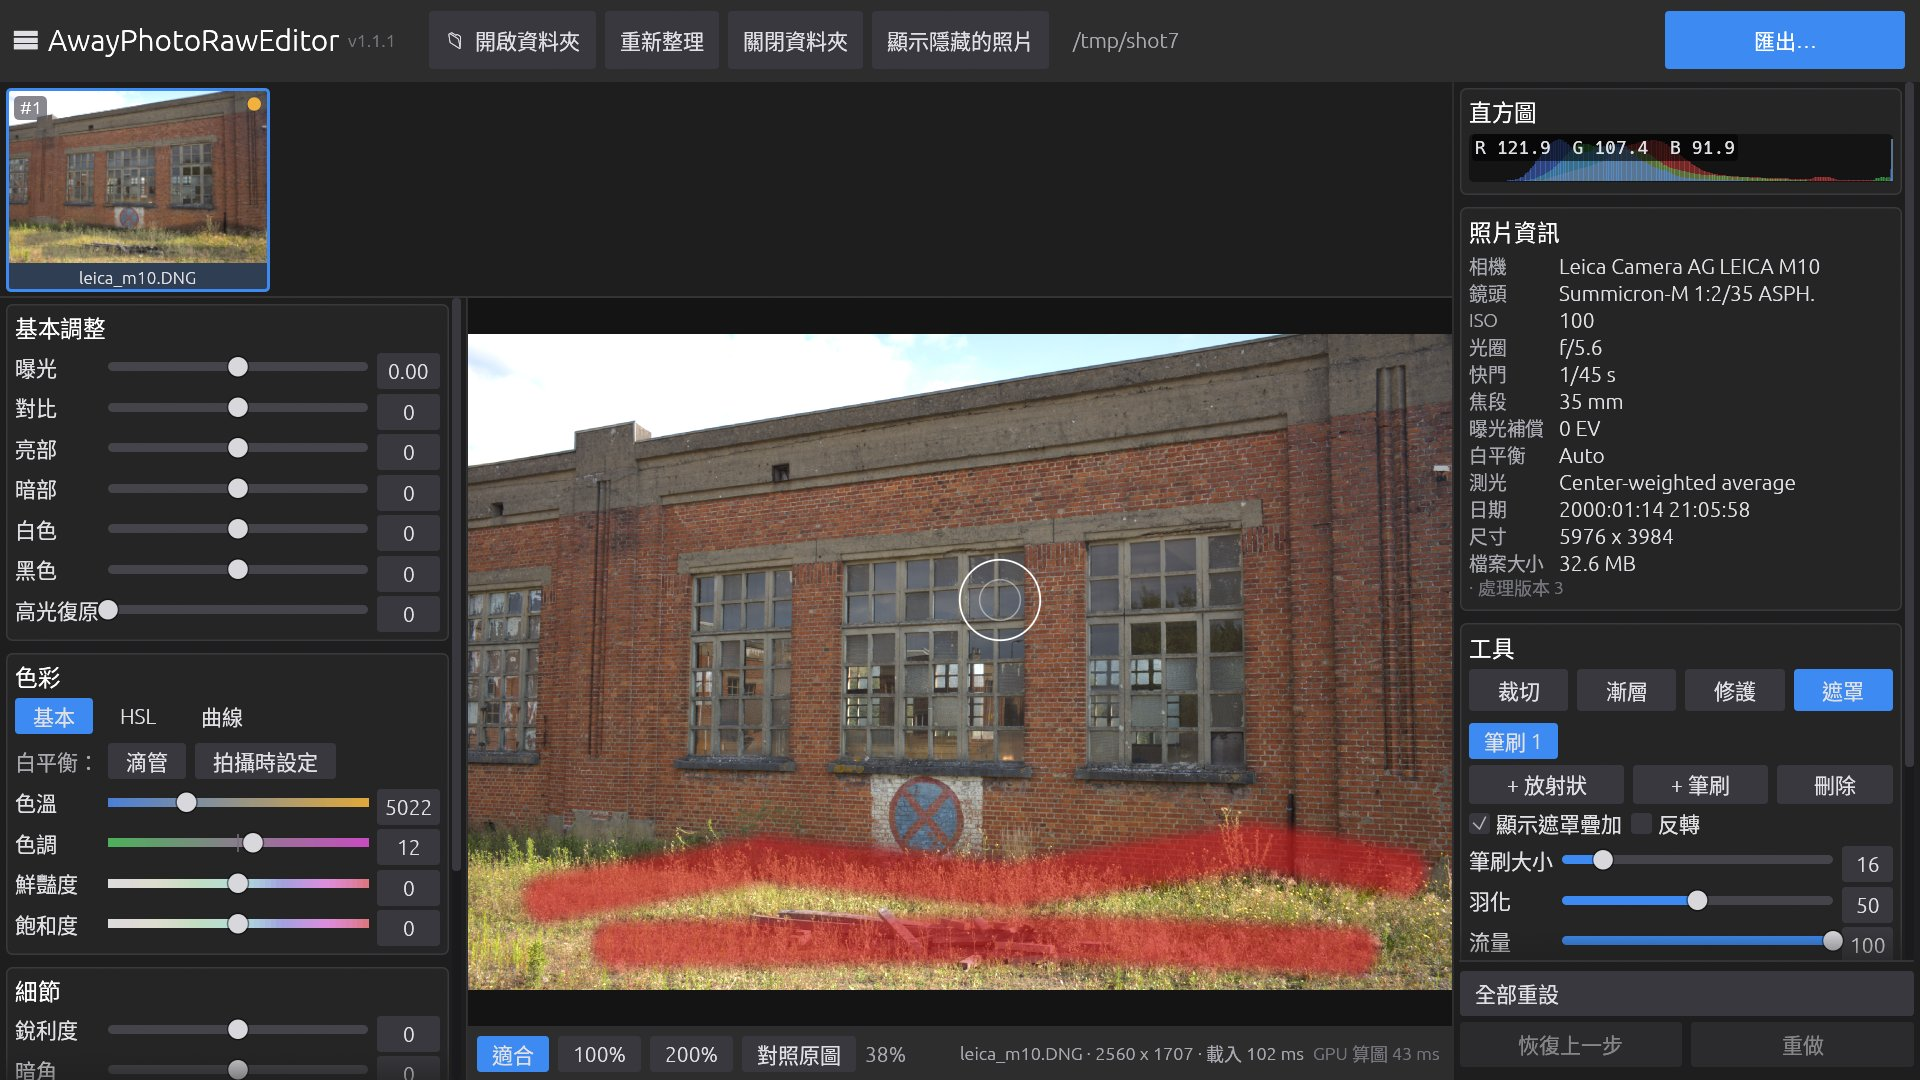
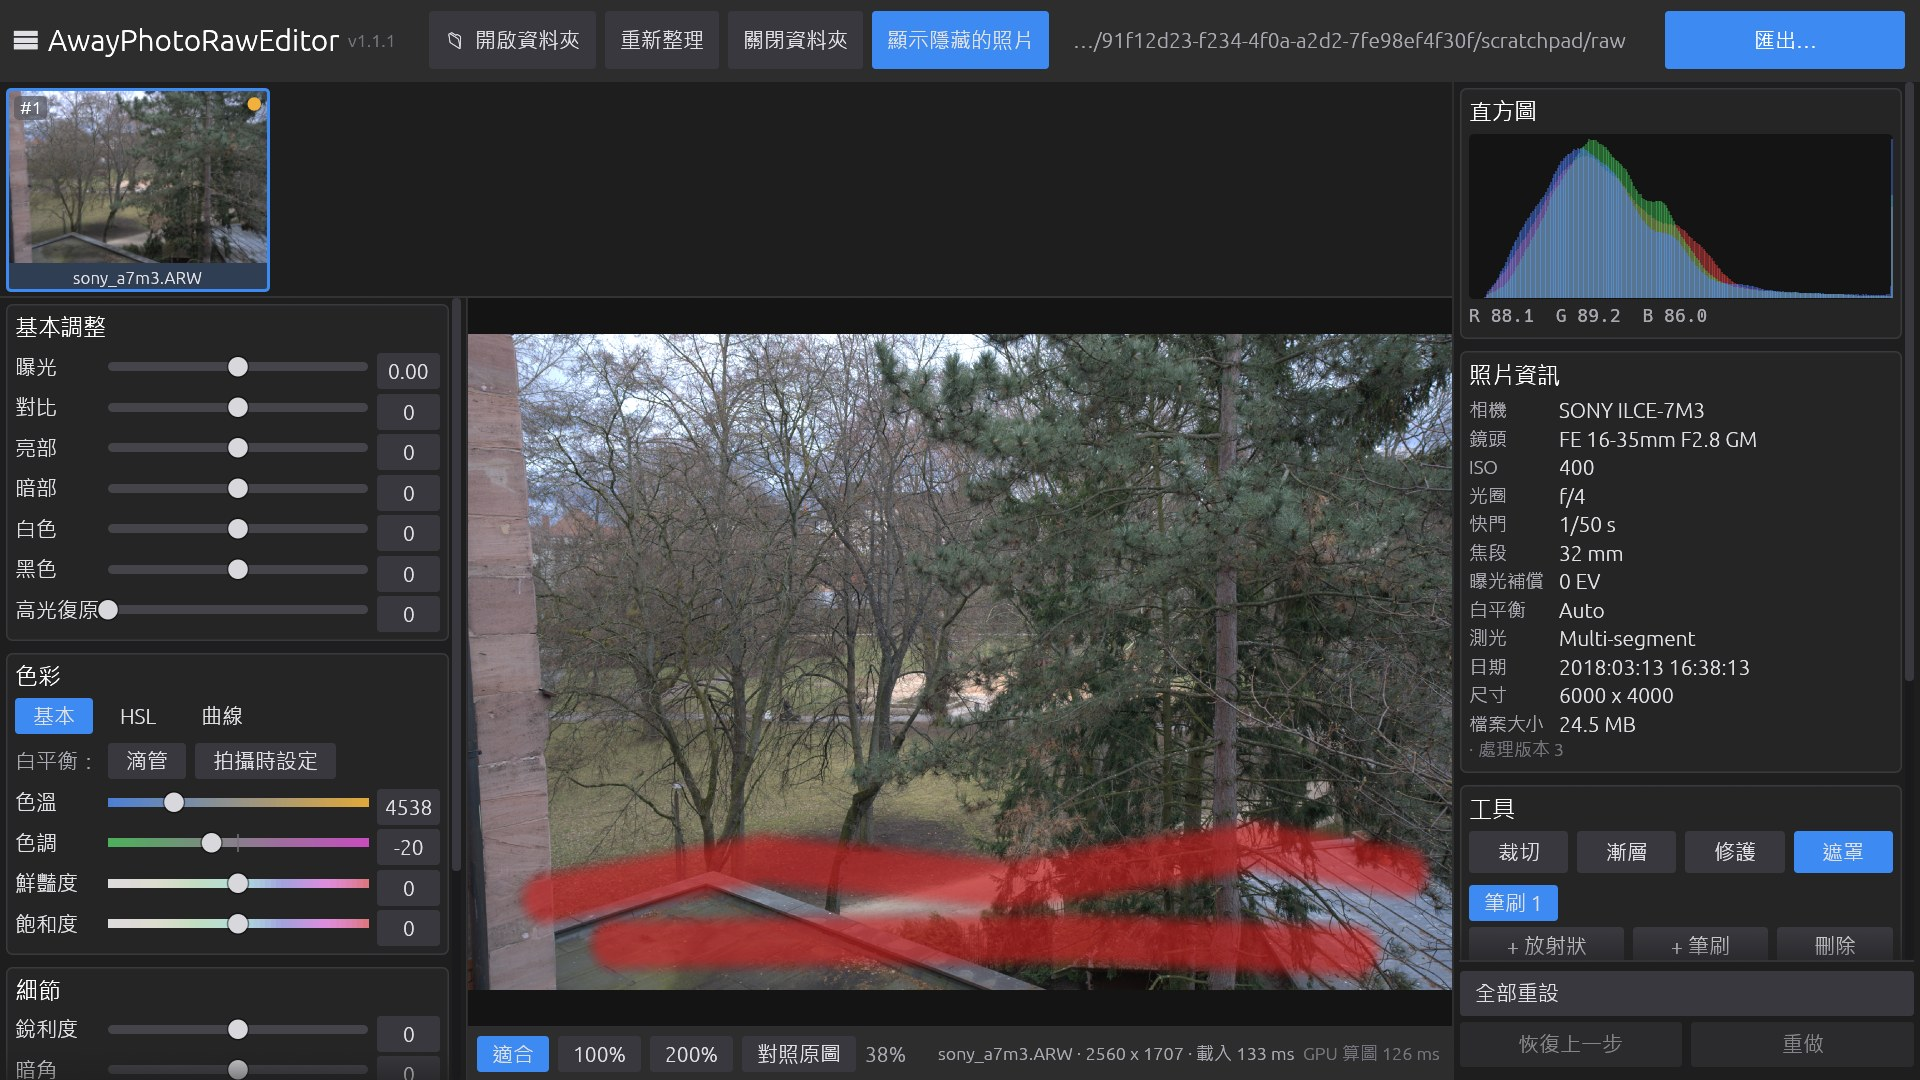
介面：開啟工具時直方圖與照片資訊不再縮小（TASK-015）
直方圖固定 110、RGB 平均值維持在圖下一列；照片資訊列距改回 1，與沒開工具時相同。
右欄放不下時用 VisibleWhenNeeded 捲軸（方案 D）。

diff --git a/crates/app/src/app.rs b/crates/app/src/app.rs
@@ -1581,11 +1581,9 @@ impl App {
     fn right_column(&mut self, ui: &mut egui::Ui) {
         ui.style_mut().wrap_mode = Some(egui::TextWrapMode::Truncate);
         ui.add_space(4.0);
-        // Lower while a tool is open, the means inside the plot: the tool panel needs the
-        // room (the photo info stays a full table).
-        let compact = self.tool != ToolMode::None;
-        let hist_h = if compact { 32.0 } else { 110.0 };
-        theme::section(ui, t("直方圖"), |ui| widgets::histogram(ui, self.hist.as_ref(), hist_h, compact));
+        // The histogram and the photo info keep their full size whether or not a tool is
+        // open (1.1.1); when the tool panel does not fit, the column scrolls.
+        theme::section(ui, t("直方圖"), |ui| widgets::histogram(ui, self.hist.as_ref(), 110.0));
         ui.add_space(4.0);
         theme::section(ui, t("照片資訊"), |ui| match &self.exif {
             None => {
@@ -1611,7 +1609,7 @@ impl App {
                 let key_font = egui::FontId::proportional(theme::scaled(12.5));
                 let key_w = rows.iter().map(|(k, _)| widgets::text_width(ui, k, &key_font)).fold(0.0f32, f32::max).min(ui.available_width() * 0.45);
                 let row_h = ui.text_style_height(&egui::TextStyle::Body);
-                ui.spacing_mut().item_spacing.y = 0.0;
+                ui.spacing_mut().item_spacing.y = 1.0;
                 for (k, v) in rows {
                     ui.horizontal(|ui| {
                         ui.spacing_mut().item_spacing.x = 10.0;

diff --git a/crates/app/src/widgets.rs b/crates/app/src/widgets.rs
@@ -471,9 +471,8 @@ impl Histogram {
     }
 }
 
-/// `compact` (a tool is open): the means go inside the plot's top-left corner instead of
-/// a line of their own.
-pub fn histogram(ui: &mut egui::Ui, h: Option<&Histogram>, height: f32, compact: bool) {
+/// RGB histogram plot of `height`, the channel means on a line below it.
+pub fn histogram(ui: &mut egui::Ui, h: Option<&Histogram>, height: f32) {
     let (rect, _) = ui.allocate_exact_size(Vec2::new(ui.available_width(), height), Sense::hover());
     let painter = ui.painter_at(rect);
     painter.rect_filled(rect, 3.0, theme::VIEWER);
@@ -497,13 +496,5 @@ pub fn histogram(ui: &mut egui::Ui, h: Option<&Histogram>, height: f32, compact:
     }
     let m = h.means();
     let means = format!("R {:.1}  G {:.1}  B {:.1}", m[0], m[1], m[2]);
-    if compact {
-        let font = egui::TextStyle::Monospace.resolve(ui.style());
-        let galley = painter.layout_no_wrap(means, font, theme::TEXT);
-        let at = rect.min + Vec2::new(4.0, 2.0);
-        painter.rect_filled(Rect::from_min_size(at, galley.size()).expand(2.0), 2.0, Color32::from_black_alpha(150));
-        painter.galley(at, galley, theme::TEXT);
-    } else {
-        ui.label(egui::RichText::new(means).monospace().color(theme::TEXT_DIM));
-    }
+    ui.label(egui::RichText::new(means).monospace().color(theme::TEXT_DIM));
 }

diff --git a/CHANGELOG.md b/CHANGELOG.md
@@ -5,7 +5,7 @@
 - 頂部工具列的按鈕高度縮減五分之一。
 - 縮圖列可以按住滑鼠右鍵左右拖曳捲動（沒有拖曳時右鍵仍開啟選單）；滑鼠滾輪不必按 Shift 也能左右捲動。
 - 縮圖列左邊或右邊還有照片時，邊緣會顯示半透明的三角箭頭，按一下捲動一頁。
-- 開啟工具時照片資訊不再縮起來，永遠顯示完整表格；直方圖仍會變矮，RGB 平均值疊在圖內。照片資訊加上工具面板放不下時，右欄會出現捲軸。
+- 開啟工具時直方圖與照片資訊不再縮小，與沒開工具時相同；加上工具面板放不下時，右欄會出現捲軸。
 
 ## 1.1.0（2026-10-10）
 

diff --git a/docs/RELEASE-NOTES-1.1.1.md b/docs/RELEASE-NOTES-1.1.1.md
@@ -3,4 +3,4 @@
 - 頂部工具列的按鈕高度縮減五分之一。
 - 縮圖列可以按住滑鼠右鍵左右拖曳捲動（沒有拖曳時右鍵仍開啟選單）；滑鼠滾輪不必按 Shift 也能左右捲動。
 - 縮圖列左邊或右邊還有照片時，邊緣會顯示半透明的三角箭頭，按一下捲動一頁。
-- 開啟工具時照片資訊不再縮起來，永遠顯示完整表格；直方圖仍會變矮，RGB 平均值疊在圖內。照片資訊加上工具面板放不下時，右欄會出現捲軸。
+- 開啟工具時直方圖與照片資訊不再縮小，與沒開工具時相同；加上工具面板放不下時，右欄會出現捲軸。
